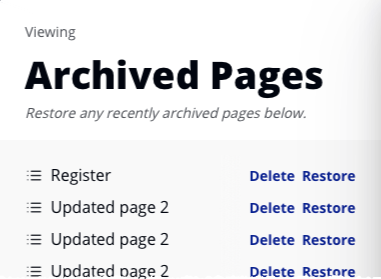
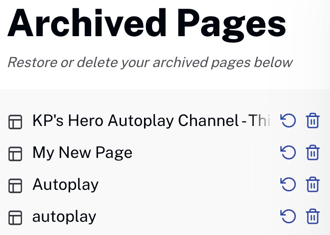
Updated Creating and Managing Pages

diff --git a/_site/pages/creating-managing-pages.html b/_site/pages/creating-managing-pages.html
@@ -841,37 +841,50 @@ function doGTranslate(lang_pair) {if(lang_pair.value)lang_pair=lang_pair.value;i
   <section class="bcls-section">
     <h2 id="edit">Editing pages</h2>
     <p>To edit a page, from the <strong>Layout</strong> module index page in the side navigation panel, click on the page to edit. The page settings are displayed.</p>
-    <figure class="bcls-figure"><img class="bcls-image--no-border" alt="" src="/assets/images/pages/pages-settings.png" /></figure>
+
+    <figure class="bcls-figure"><img class="bcls-image" alt="" src="/assets/images/pages/pages-settings.png" /></figure>
     <h3 id="page-title">Editing the page title</h3>
-    <p>To edit the page title, click the gear icon <img class="bcls-image--no-border" alt="" src="/assets/images/common/gear-blue.png" /> next to the page name and enter a new name. You can also edit the title in multiple languages, if they are enabled for your apps.</p>
+    <p>To edit the page title, click <img class="ui-image" alt="" src="/assets/images/common/gear-blue.png" /> next to the page title and enter a new title. You can also edit the title in multiple languages, if they are enabled for your apps.</p>
     <h3>Editing the page type</h3>
     <p>To edit the layout, hover over the current layout then click <span class="button-blue-text">Change</span>. Click on a new layout then click <span class="button-blue-text">Select</span>.</p>
   </section>
 
   <section class="bcls-section">
     <h2 id="duplicate">Duplicating pages</h2>
-    <p>Duplicating pages can be useful when you need to create a new page that is similar to an existing page. To duplicate a page, hover over the page name and click on <strong>Duplicate</strong>.</p>
-    <figure class="bcls-figure"><img class="bcls-image--no-border" alt="" src="/assets/images/pages/pages-duplicate.png" /></figure>
+    <p>Duplicating pages can be useful when you need to create a new page that is similar to an existing page. To duplicate a page, hover over the page name and click <img class="ui-image" src="/assets/images/common/duplicate-blue.png" alt="duplicate icon">.</p>
+    <figure class="bcls-figure"><img class="bcls-image" alt="" src="/assets/images/pages/pages-duplicate.png" /></figure>
   </section>
 
   <section class="bcls-section">
     <h2 id="rearrange">Rearranging page order</h2>
     <p>The order of the pages in the left navigation determines the order of the display in a Beacon application. To change the page order, click on a page and drag it to a new location.</p>
-    <figure class="bcls-figure"><img class="bcls-image--no-border" alt="" src="/assets/images/pages/pages-rearrange.png" /></figure>
+    <figure class="bcls-figure"><img class="bcls-image" alt="" src="/assets/images/pages/pages-rearrange.png" /></figure>
   </section>
 
   <section class="bcls-section">
-    <h2 id="archive">Archiving and deleting pages</h2>
+    <h2 id="archive">Archiving, restoring and deleting pages</h2>
     <p>Archiving a page removes it from the application but it does not delete the page. To archive a page, follow these steps:</p>
     <ol class="bcls-tasklist-restart">
       <li>Click on a page to open the page details.</li>
-      <li>Click <strong>Archive Page</strong> at the bottom of the page details.</li>
+      <li>Click <img class="ui-image" class="bcls-image" alt="" src="/assets/images/common/gear-blue.png" /> next to the page title</li>
+      <li>On the bottom-left of the page settings dialog that opens, click <strong>Archive page</strong>.</li>
+      <li>Note that the page is immediately archived and you are returned to the index page of the Layout module with the archived page no longer in the page list.</li>
     </ol>
-    <p>The total number of archived pages appears at the bottom of the left margin.</p>
-    <figure class="bcls-figure"><img class="bcls-image--no-border" alt="" src="/assets/images/pages/pages-archived.png" /></figure>
-    <p>Click <strong>Archived Pages</strong> to display a list of archived pages.</p>
-    <figure class="bcls-figure"><img class="bcls-image--no-border" alt="" src="/assets/images/pages/pages-archive-delete-restore.png" /></figure>
-    <p>To permanently delete an archived page, click <strong>Delete</strong>. Click <strong>Restore</strong> to unarchive a page and add it back to the page listing.</p>
+    <p>To restore or permanently delete the archived page, follow these steps:
+    <ol class="bcls-tasklist">
+      <li>At the very bottom of the navigation panel, click the link that shows the number of archived page:
+        <figure class="bcls-figure">
+          <img class="bcls-image" src="/assets/images/pages/pages-archived.png" alt="number or archived pages">
+        </figure>
+      </li>
+      <li>Confirm that the list of archived page appears:
+        <figure class="bcls-figure">
+          <img class="bcls-image" src="/assets/images/pages/pages-archive-delete-restore.png" alt="restore or delete">
+        </figure>
+      </li>
+      <li>Click <img class="ui-image" src="/assets/images/common/restore-page-circle.png" alt="restore page"> to restore the archived page, or click the <img class="ui-image" src="/assets/images/common/blue-trash-can.png" alt="delete page"> to <strong>permanently delete</strong> the page.</li>
+      <li>Confirm that you are returned to the index page of the Layout module where you see the page list.</li>
+    </ol>
   </section>
 </article>
 <!-- complete bootstrap layout -->

diff --git a/pages/creating-managing-pages.html b/pages/creating-managing-pages.html
@@ -69,36 +69,49 @@ parent: "pages"
   <section class="bcls-section">
     <h2 id="edit">Editing pages</h2>
     <p>To edit a page, from the <strong>Layout</strong> module index page in the side navigation panel, click on the page to edit. The page settings are displayed.</p>
-    <figure class="bcls-figure"><img class="bcls-image--no-border" alt="" src="/assets/images/pages/pages-settings.png" /></figure>
+
+    <figure class="bcls-figure"><img class="bcls-image" alt="" src="/assets/images/pages/pages-settings.png" /></figure>
     <h3 id="page-title">Editing the page title</h3>
-    <p>To edit the page title, click the gear icon <img class="bcls-image--no-border" alt="" src="/assets/images/common/gear-blue.png" /> next to the page name and enter a new name. You can also edit the title in multiple languages, if they are enabled for your apps.</p>
+    <p>To edit the page title, click <img class="ui-image" alt="" src="/assets/images/common/gear-blue.png" /> next to the page title and enter a new title. You can also edit the title in multiple languages, if they are enabled for your apps.</p>
     <h3>Editing the page type</h3>
     <p>To edit the layout, hover over the current layout then click <span class="button-blue-text">Change</span>. Click on a new layout then click <span class="button-blue-text">Select</span>.</p>
   </section>
 
   <section class="bcls-section">
     <h2 id="duplicate">Duplicating pages</h2>
-    <p>Duplicating pages can be useful when you need to create a new page that is similar to an existing page. To duplicate a page, hover over the page name and click on <strong>Duplicate</strong>.</p>
-    <figure class="bcls-figure"><img class="bcls-image--no-border" alt="" src="/assets/images/pages/pages-duplicate.png" /></figure>
+    <p>Duplicating pages can be useful when you need to create a new page that is similar to an existing page. To duplicate a page, hover over the page name and click <img class="ui-image" src="/assets/images/common/duplicate-blue.png" alt="duplicate icon">.</p>
+    <figure class="bcls-figure"><img class="bcls-image" alt="" src="/assets/images/pages/pages-duplicate.png" /></figure>
   </section>
 
   <section class="bcls-section">
     <h2 id="rearrange">Rearranging page order</h2>
     <p>The order of the pages in the left navigation determines the order of the display in a Beacon application. To change the page order, click on a page and drag it to a new location.</p>
-    <figure class="bcls-figure"><img class="bcls-image--no-border" alt="" src="/assets/images/pages/pages-rearrange.png" /></figure>
+    <figure class="bcls-figure"><img class="bcls-image" alt="" src="/assets/images/pages/pages-rearrange.png" /></figure>
   </section>
 
   <section class="bcls-section">
-    <h2 id="archive">Archiving and deleting pages</h2>
+    <h2 id="archive">Archiving, restoring and deleting pages</h2>
     <p>Archiving a page removes it from the application but it does not delete the page. To archive a page, follow these steps:</p>
     <ol class="bcls-tasklist-restart">
       <li>Click on a page to open the page details.</li>
-      <li>Click <strong>Archive Page</strong> at the bottom of the page details.</li>
+      <li>Click <img class="ui-image" class="bcls-image" alt="" src="/assets/images/common/gear-blue.png" /> next to the page title</li>
+      <li>On the bottom-left of the page settings dialog that opens, click <strong>Archive page</strong>.</li>
+      <li>Note that the page is immediately archived and you are returned to the index page of the Layout module with the archived page no longer in the page list.</li>
     </ol>
-    <p>The total number of archived pages appears at the bottom of the left margin.</p>
-    <figure class="bcls-figure"><img class="bcls-image--no-border" alt="" src="/assets/images/pages/pages-archived.png" /></figure>
-    <p>Click <strong>Archived Pages</strong> to display a list of archived pages.</p>
-    <figure class="bcls-figure"><img class="bcls-image--no-border" alt="" src="/assets/images/pages/pages-archive-delete-restore.png" /></figure>
-    <p>To permanently delete an archived page, click <strong>Delete</strong>. Click <strong>Restore</strong> to unarchive a page and add it back to the page listing.</p>
+    <p>To restore or permanently delete the archived page, follow these steps:
+    <ol class="bcls-tasklist">
+      <li>At the very bottom of the navigation panel, click the link that shows the number of archived page:
+        <figure class="bcls-figure">
+          <img class="bcls-image" src="/assets/images/pages/pages-archived.png" alt="number or archived pages">
+        </figure>
+      </li>
+      <li>Confirm that the list of archived page appears:
+        <figure class="bcls-figure">
+          <img class="bcls-image" src="/assets/images/pages/pages-archive-delete-restore.png" alt="restore or delete">
+        </figure>
+      </li>
+      <li>Click <img class="ui-image" src="/assets/images/common/restore-page-circle.png" alt="restore page"> to restore the archived page, or click the <img class="ui-image" src="/assets/images/common/blue-trash-can.png" alt="delete page"> to <strong>permanently delete</strong> the page.</li>
+      <li>Confirm that you are returned to the index page of the Layout module where you see the page list.</li>
+    </ol>
   </section>
 </article>
